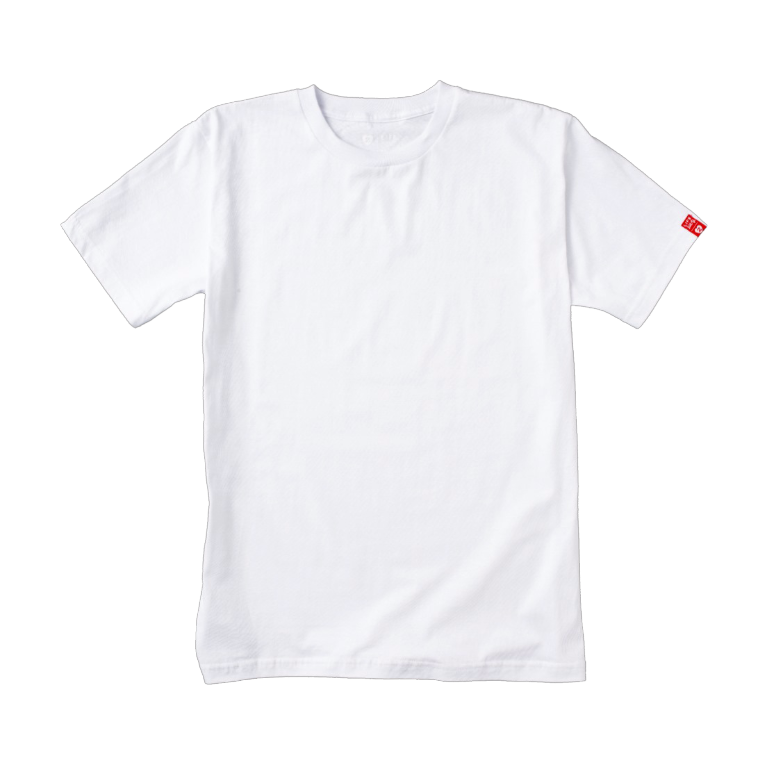
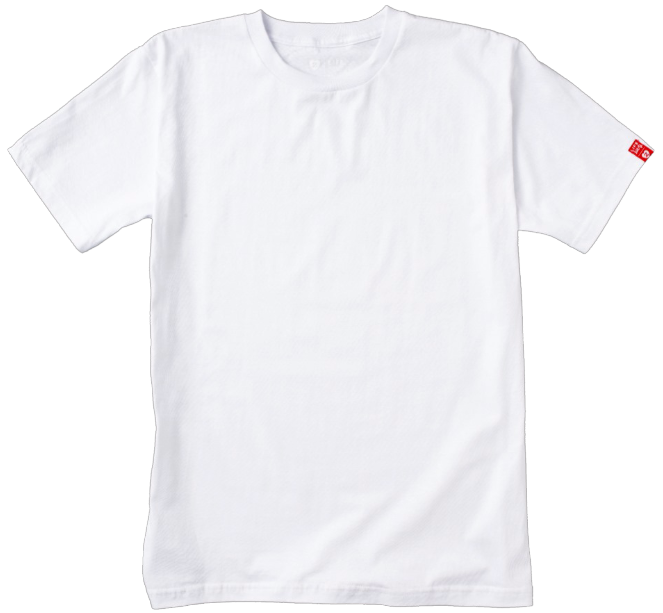
updated image preview on item

diff --git a/src/components/Preview.jsx b/src/components/Preview.jsx
@@ -71,11 +71,17 @@ export class Preview extends BaseComponent {
   }
 
   render() {
+    console.log(this.props.previewImage, this.props);
     var styles = {
       link: {
         cursor: 'pointer'
+      },
+      preview: {
+        backgroundImage: 'url(' + (window.host + this.props.previewImage) + '), url(/src/images/shirt.png)'
       }
     };
+
+    console.log(styles.preview.backgroundImage);
 
     var firstFormClass = 'firstForm ' + (!this.state.form1 ? 'visible':'hidden');
     var secondFormClass = 'secondForm ' + (this.state.form1 ? 'visible':'hidden');
@@ -183,9 +189,7 @@ export class Preview extends BaseComponent {
             <br/>
             <div className="card-image">
 
-              <img src="/shirt.png" className="preview-shirt" />
-              <img src={window.host + this.props.previewImage}></img>
-
+              <div className="preview-shirt" style={styles.preview} />
             </div>
           </div>
           <div className="hide">

diff --git a/src/styles/app.less b/src/styles/app.less
@@ -52,3 +52,14 @@ nav.top-nav {
 .hidden {
   display: none;
 }
+
+.preview-shirt {
+  background-position: center;
+  display: inline-block;
+  height: 100%;
+  width: 100%;
+  background-size: 50%, contain;
+  background-repeat: no-repeat;
+  background-blend-mode: multiply;
+  -webkit-background-blend-mode: multiply;
+}
